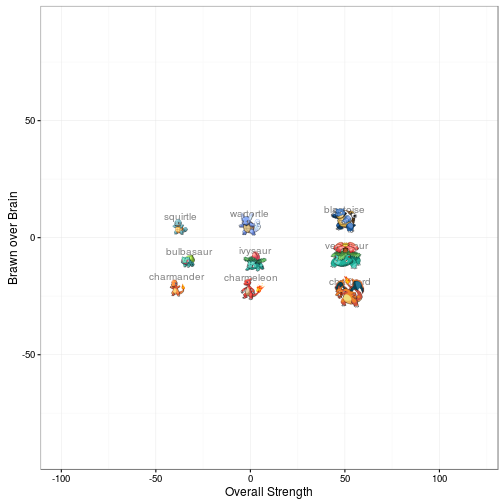
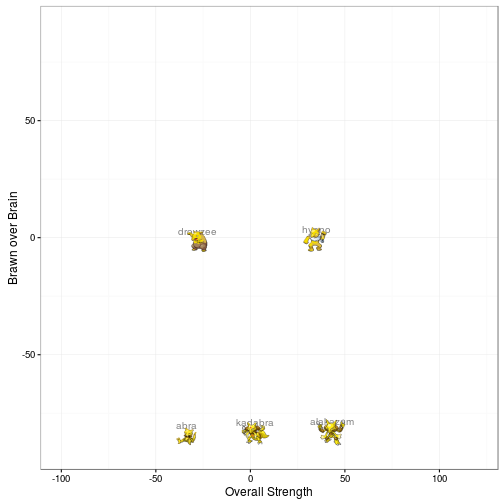
add more explanation

diff --git a/_posts/2016-07-18-gotta-plot-them-all.md b/_posts/2016-07-18-gotta-plot-them-all.md
@@ -99,7 +99,10 @@ What do these two principal components represent? To understand their meaning, w
 
 We see that all stats point to the right side of the the Principal Component 1 (PC1). So we could interpret PC1 as "Overall Strength"--the higher the value of PC1, the higher the value of all 6 stats.
 
-On the other hand, along PC2, we see that HP, Attack, and Defense point to a different direction from that of Speed, Special Attack, and Special Defense. So we could interpret PC2 as some sort of "Brawn over Brain"--the higher the value of PC2, the higher the regular stats and the lower the special stats.
+On the other hand, along PC2, we see that HP, Attack, and Defense point to a different direction from that of Speed, Special Attack, and Special Defense. So we could interpret PC2 as some sort of "Brawn over Brain"--the higher the value of PC2, the higher the regular stats and the lower the special stats. (NB: Regular stats, e.g. Attack and Defense affect physical moves, while special stats, e.g. Speciall Attack and Special Defense affect elemental moves.)
+
+As you can see, PC1 is pretty intuitive -- one can guess from the outset that Pokemons should vary a lot based on their overall strength. To me what's interesting is really PC2, which shows that the second most important way that Pokemons vary is along the Regular Stat-vs-Special Stat dimensions (which I call Brawn over Brain). That wasn't something I expected before the analysis.
+
 
 {% highlight r %}
 biplot(pca, cex = c(0.6, 0.85), arrow.len = 0.05,
@@ -143,14 +146,25 @@ f_plot(pd)
 
 <img src="/~aql3/figure/source/2016-07-18-gotta-plot-them-all/unnamed-chunk-4-1.png" title="plot of chunk unnamed-chunk-4" alt="plot of chunk unnamed-chunk-4" style="display: block; margin: auto;" />
 
-The three starter Pokemons are very balanced, with Charmander having a slight edge as it evolves to Charizard.
+One way to think about PC2 is via the classic dilemma of choosing which Psychic pokemon for your team: Hypno or Alakazam. Looking at where these Pokemons position on the graph, we can see that both have similar overall strength (with Alakazam having slightly more). But along PC2, Alakazam places at the bottom of PC2, i.e. leaning heavily towards special stats at the exense of regular stats. On the other hand, Hypno has very balanced stats. That's why lots of people choose Hypno as a robust Psychic type rather than the glass cannon that is Alakazam.
+
+
+{% highlight r %}
+f_plot(pd %>% filter(name %in% c("abra", "kadabra", "alakazam",
+                                 "drowzee", "hypno")))
+{% endhighlight %}
+
+<img src="/~aql3/figure/source/2016-07-18-gotta-plot-them-all/unnamed-chunk-5-1.png" title="plot of chunk unnamed-chunk-5" alt="plot of chunk unnamed-chunk-5" style="display: block; margin: auto;" />
+
+The three starter Pokemons are very balanced, with Charmander having a slight edge as it evolves to Charizard. If you squint really hard, it also seems like that strongest Pokemon at the first stage (Squirtle) turns out to be weakest at the final stage (Blatoise), and vice versa for Charmander and Charizard. That's game balance design at work!
+
 
 {% highlight r %}
 # Plot starter Pokemons
 f_plot(pd %>% filter(id %in% 1:9))
 {% endhighlight %}
 
-<img src="/~aql3/figure/source/2016-07-18-gotta-plot-them-all/unnamed-chunk-5-1.png" title="plot of chunk unnamed-chunk-5" alt="plot of chunk unnamed-chunk-5" style="display: block; margin: auto;" />
+<img src="/~aql3/figure/source/2016-07-18-gotta-plot-them-all/unnamed-chunk-6-1.png" title="plot of chunk unnamed-chunk-6" alt="plot of chunk unnamed-chunk-6" style="display: block; margin: auto;" />
 
 The final plot shows how Arcanine, my favorite Pokemon, rivals the Legendary birds in terms of stats. Indeed, [Arcanine was planned to be a Legendary](http://30.media.tumblr.com/tumblr_lhkx6pz3W51qdippyo1_500.png), but got changed before the game came out. Reddit has an entire thread devoted to this ["Pokemon conspiracy"](https://www.reddit.com/r/pokemonconspiracies/comments/2uu7lc/arcanine_was_meant_to_be_a_legendary/).
 
@@ -159,6 +173,6 @@ The final plot shows how Arcanine, my favorite Pokemon, rivals the Legendary bir
 f_plot(pd %>% filter(name %in% c("arcanine", "moltres", "zapdos", "articuno")))
 {% endhighlight %}
 
-<img src="/~aql3/figure/source/2016-07-18-gotta-plot-them-all/unnamed-chunk-6-1.png" title="plot of chunk unnamed-chunk-6" alt="plot of chunk unnamed-chunk-6" style="display: block; margin: auto;" />
+<img src="/~aql3/figure/source/2016-07-18-gotta-plot-them-all/unnamed-chunk-7-1.png" title="plot of chunk unnamed-chunk-7" alt="plot of chunk unnamed-chunk-7" style="display: block; margin: auto;" />
 
 [^1]: It's recommended to normalize the data before running the PCA so that the variance of variables are not affected by the units that they are measured in. In this case it's not necessary because Pokemon stats are all on the same scale.
